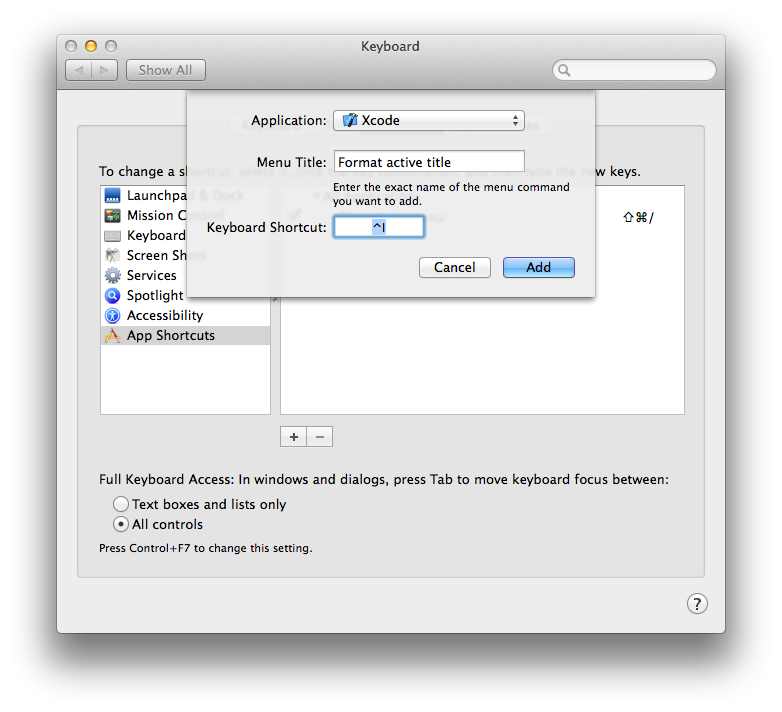
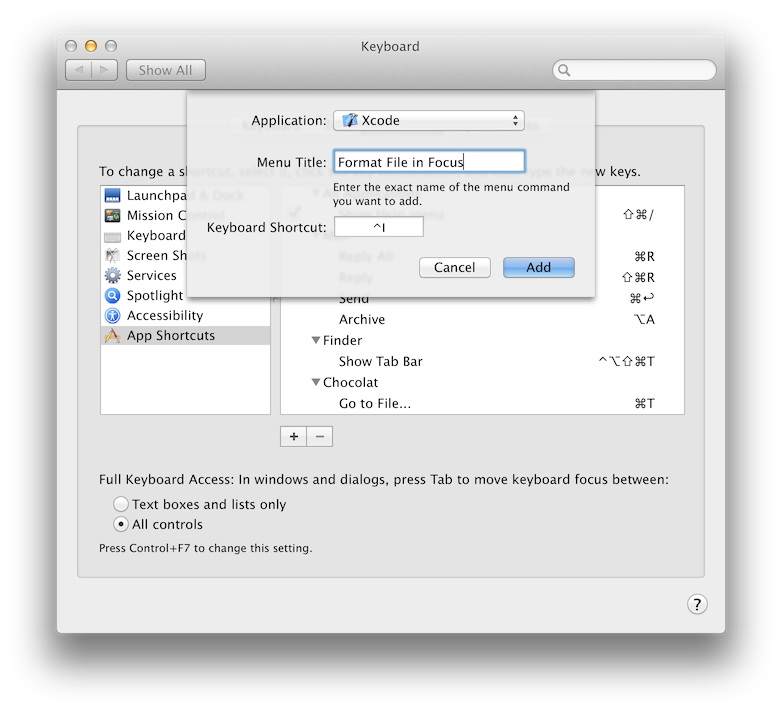
Update README and screenshots to reflect current menu titles

diff --git a/README.md b/README.md
@@ -30,7 +30,7 @@ You can assign your own keyboard shortcuts like so:
 
 - Open the System Preferences > Keyboard > Shortcuts > App Shortcuts > Click +
 - Set the application to be Xcode
-- Set the menu title to an action title, e.g. "Format active file"
+- Set the menu title to an action title, e.g. "Format File in Focus"
 - Set your shortcut
 
 In this example, we'll format the active file when `control-i` is pressed.
